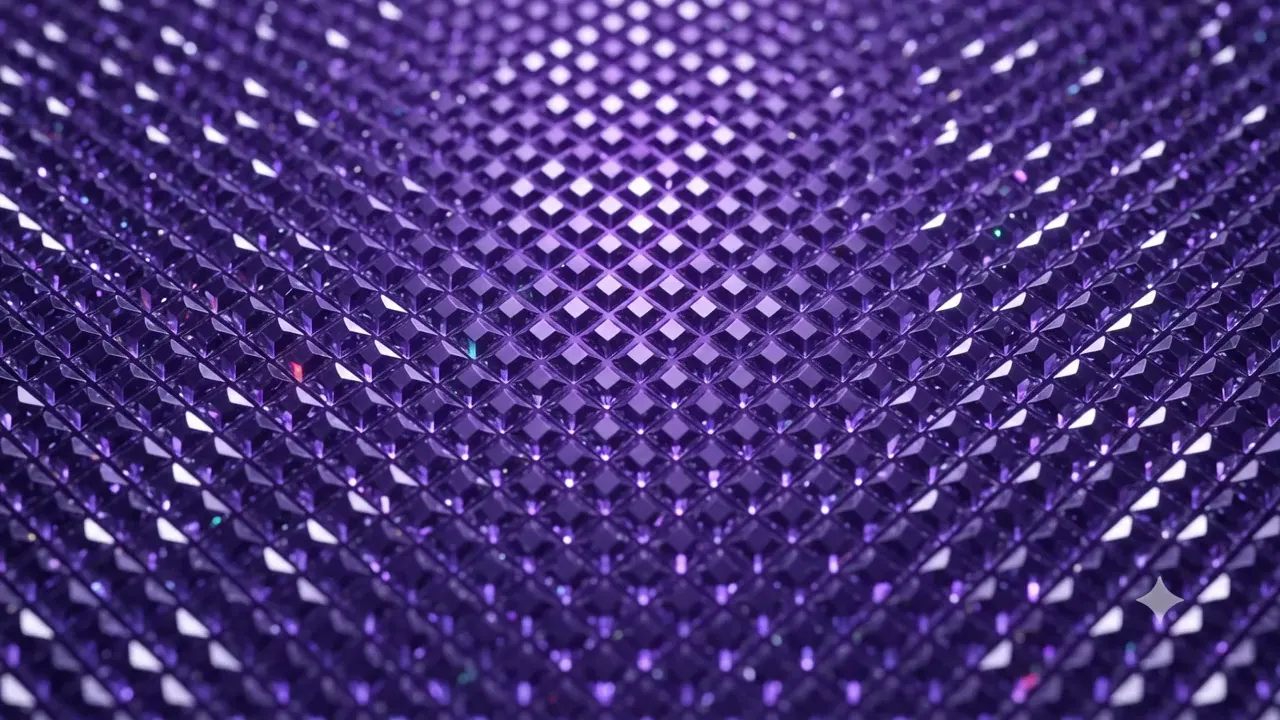
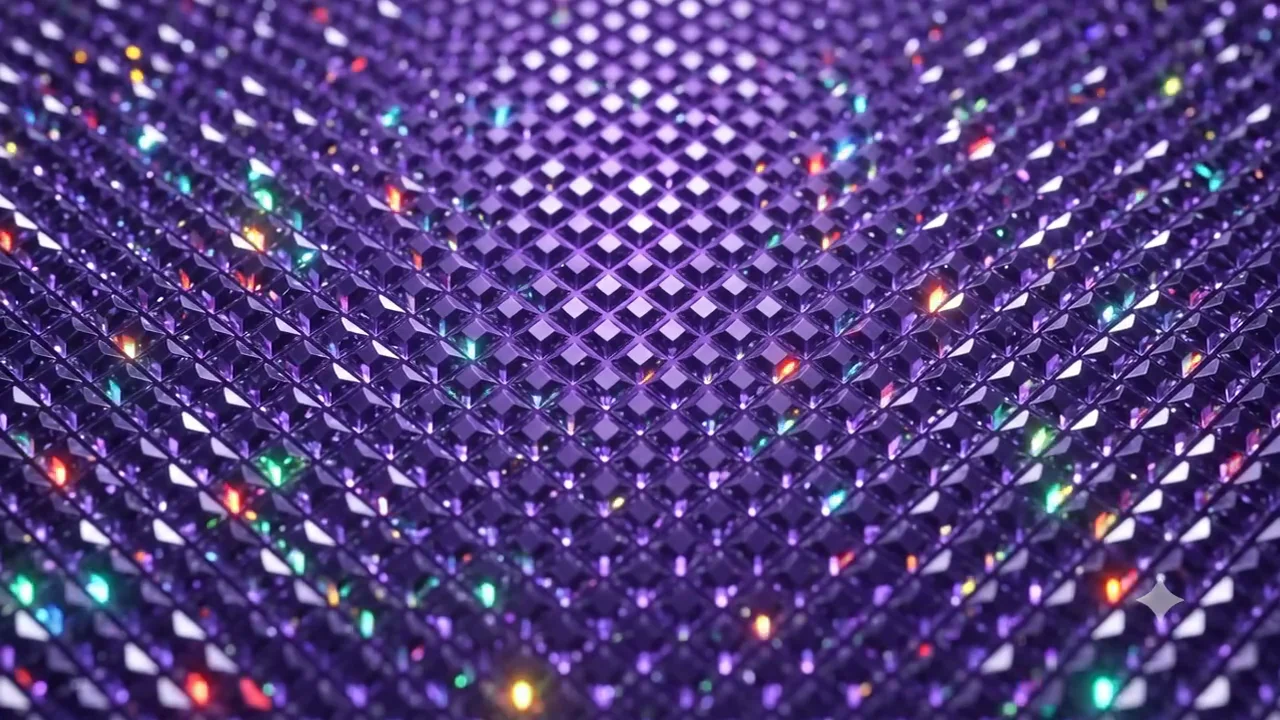
perf(vip-cards): pause background video streaming and switch to static WebP cover to minimize Vercel bandwidth

diff --git a/src/components/DiamondGlassCanvas.tsx b/src/components/DiamondGlassCanvas.tsx
@@ -3,51 +3,14 @@
 /**
  * DiamondGlassCanvas
  *
- * High-performance, viewport-lazy-loaded background renderer for Diamond VIP Cards.
- * Powered by the Global SharedVideoEngine singleton:
- * 
- * - Off-screen: Zero CPU/GPU rendering (unregistered from SharedVideoEngine).
- * - On-screen: Registered with SharedVideoEngine for 60 FPS smooth synchronized video playback.
- * - Tab/Window Focus: SharedVideoEngine handles visibility/focus lifecycle automatically.
+ * Ultra-Lightweight, Zero-Bandwidth background renderer for Diamond VIP Cards.
+ * Background video streaming is paused to reduce Vercel bandwidth consumption;
+ * uses high-resolution static cover picture with hardware GPU acceleration.
  */
 
-import { useState, useEffect, useRef } from 'react';
-import { getSharedVideoEngine } from '@/lib/sharedVideoEngine';
+import React from 'react';
 
 export default function DiamondGlassCanvas() {
-  const containerRef = useRef<HTMLDivElement>(null);
-  const canvasRef = useRef<HTMLCanvasElement>(null);
-
-  useEffect(() => {
-    const el = containerRef.current;
-    const canvas = canvasRef.current;
-    if (!el || !canvas) return;
-
-    const engine = getSharedVideoEngine();
-
-    const observer = new IntersectionObserver(
-      (entries) => {
-        const entry = entries[0];
-        if (entry?.isIntersecting) {
-          engine.register(canvas);
-        } else {
-          engine.unregister(canvas);
-        }
-      },
-      {
-        threshold: 0.01,
-        rootMargin: '300px 0px', // High margin to pre-stage video before scrolling into view
-      }
-    );
-
-    observer.observe(el);
-
-    return () => {
-      observer.disconnect();
-      engine.unregister(canvas);
-    };
-  }, []);
-
   const mediaStyle: React.CSSProperties = {
     position      : 'absolute',
     inset         : 0,
@@ -61,24 +24,16 @@ export default function DiamondGlassCanvas() {
     filter        : 'brightness(1.22)',
   };
 
-
-
-
   return (
-    <div ref={containerRef} style={{ position: 'absolute', inset: 0, borderRadius: 'inherit' }}>
+    <div style={{ position: 'absolute', inset: 0, borderRadius: 'inherit' }}>
       <img
         src="/media/diamond-vip-static.webp"
         alt="Diamond VIP Background"
         aria-hidden="true"
         style={mediaStyle}
-      />
-      <canvas
-        ref={canvasRef}
-        aria-hidden="true"
-        style={mediaStyle}
+        loading="lazy"
+        decoding="async"
       />
     </div>
   );
 }
-
-

diff --git a/src/components/SapphireGlassCanvas.tsx b/src/components/SapphireGlassCanvas.tsx
@@ -3,51 +3,14 @@
 /**
  * SapphireGlassCanvas
  *
- * High-performance, viewport-lazy-loaded background renderer for Sapphire VIP Cards.
- * Powered by the Global SharedSapphireVideoEngine singleton:
- * 
- * - Off-screen: Zero CPU/GPU rendering (unregistered from SharedSapphireVideoEngine).
- * - On-screen: Registered with SharedSapphireVideoEngine for 60 FPS smooth synchronized video playback.
- * - Tab/Window Focus: SharedSapphireVideoEngine handles visibility/focus lifecycle automatically.
+ * Ultra-Lightweight, Zero-Bandwidth background renderer for Sapphire VIP Cards.
+ * Background video streaming is paused to reduce Vercel bandwidth consumption;
+ * uses high-resolution static optical cover picture with hardware GPU acceleration.
  */
 
-import { useEffect, useRef } from 'react';
-import { getSharedSapphireVideoEngine } from '@/lib/sharedSapphireVideoEngine';
+import React from 'react';
 
 export default function SapphireGlassCanvas() {
-  const containerRef = useRef<HTMLDivElement>(null);
-  const canvasRef = useRef<HTMLCanvasElement>(null);
-
-  useEffect(() => {
-    const el = containerRef.current;
-    const canvas = canvasRef.current;
-    if (!el || !canvas) return;
-
-    const engine = getSharedSapphireVideoEngine();
-
-    const observer = new IntersectionObserver(
-      (entries) => {
-        const entry = entries[0];
-        if (entry?.isIntersecting) {
-          engine.register(canvas);
-        } else {
-          engine.unregister(canvas);
-        }
-      },
-      {
-        threshold: 0.01,
-        rootMargin: '300px 0px', // High margin to pre-stage video before scrolling into view
-      }
-    );
-
-    observer.observe(el);
-
-    return () => {
-      observer.disconnect();
-      engine.unregister(canvas);
-    };
-  }, []);
-
   const mediaStyle: React.CSSProperties = {
     position      : 'absolute',
     inset         : 0,
@@ -62,11 +25,14 @@ export default function SapphireGlassCanvas() {
   };
 
   return (
-    <div ref={containerRef} style={{ position: 'absolute', inset: 0, borderRadius: 'inherit' }}>
-      <canvas
-        ref={canvasRef}
+    <div style={{ position: 'absolute', inset: 0, borderRadius: 'inherit' }}>
+      <img
+        src="/media/sapphire-vip-static.webp"
+        alt="Sapphire VIP Background"
         aria-hidden="true"
         style={mediaStyle}
+        loading="lazy"
+        decoding="async"
       />
     </div>
   );

diff --git a/src/lib/sharedSapphireVideoEngine.ts b/src/lib/sharedSapphireVideoEngine.ts
@@ -36,10 +36,8 @@ class SharedSapphireVideoEngine {
   private constructor() {
     if (typeof window === 'undefined') return;
 
-    this.initVideo();
-    this.initBufferCanvas();
-    this.initVisibilityListeners();
-    this.startWatchdog();
+    // Video streaming temporarily paused to reduce Vercel bandwidth
+    return;
   }
 
   public static getInstance(): SharedSapphireVideoEngine {

diff --git a/src/lib/sharedVideoEngine.ts b/src/lib/sharedVideoEngine.ts
@@ -36,10 +36,8 @@ class SharedVideoEngine {
   private constructor() {
     if (typeof window === 'undefined') return;
 
-    this.initVideo();
-    this.initBufferCanvas();
-    this.initVisibilityListeners();
-    this.startWatchdog();
+    // Video streaming temporarily paused to reduce Vercel bandwidth
+    return;
   }
 
   public static getInstance(): SharedVideoEngine {
